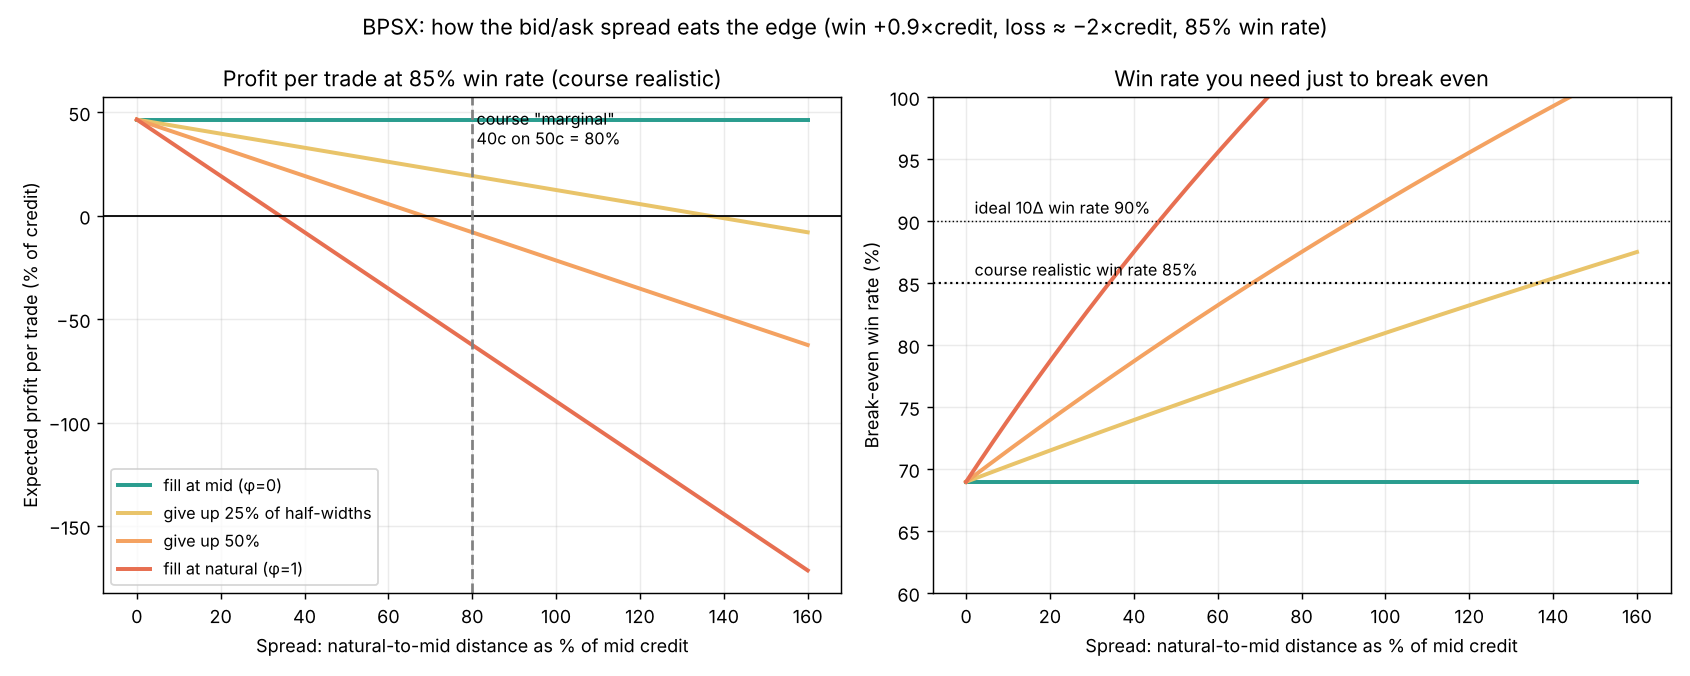
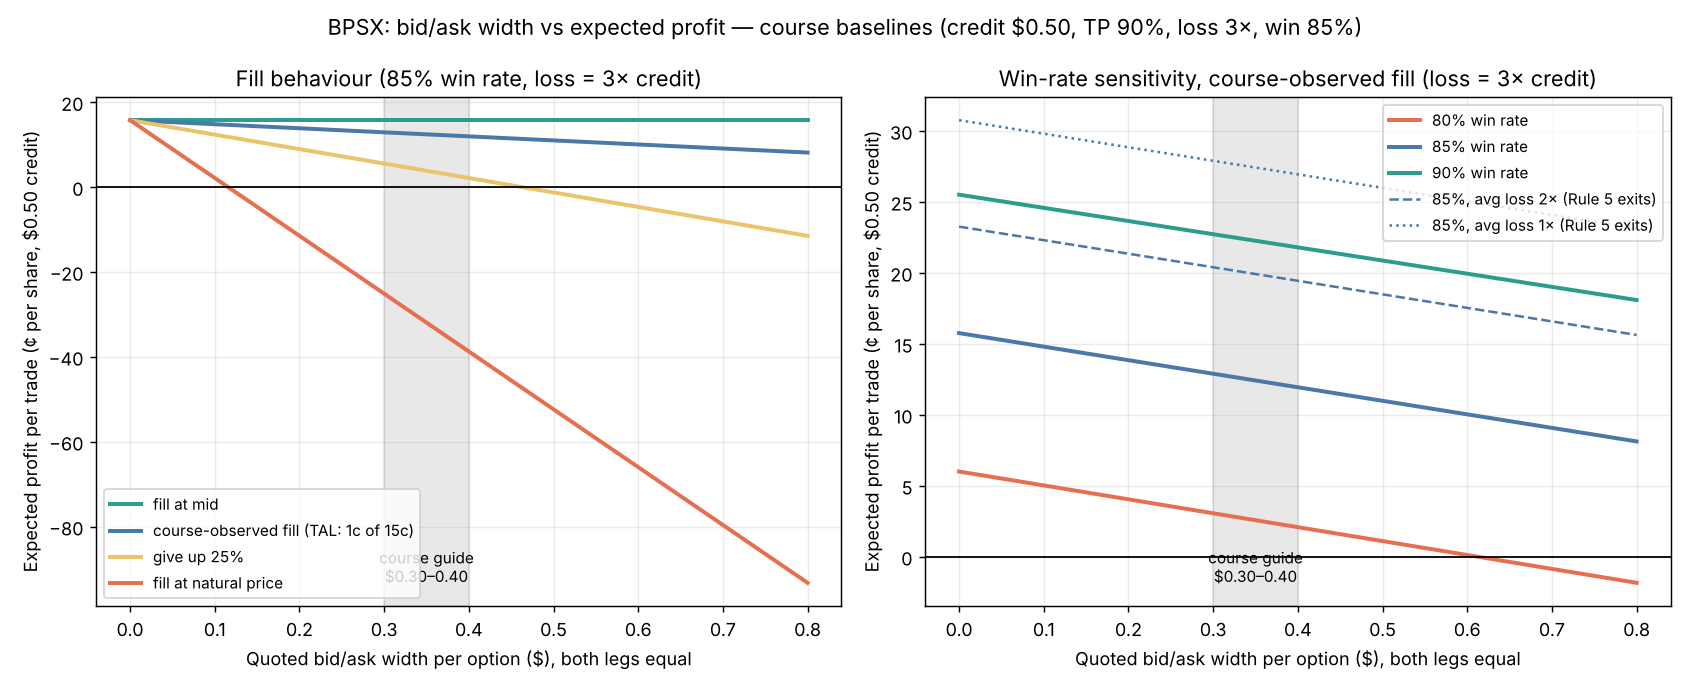
Spread vs profit plot on course baselines
Claude-Session: https://claude.ai/code/session_0116kmSuV8oiKBdSivZMZaz3

diff --git a/docs/spread_vs_profit.py b/docs/spread_vs_profit.py
@@ -1,40 +1,33 @@
-"""Spread vs profit for BPSX, using the course payoff arithmetic (OPTIONS_MASTER_DOCUMENT.md).
-r = H/credit, H = (short width + long width)/2 = natural-to-mid distance. Credit normalised to 1."""
+"""BPSX spread vs profit using the COURSE baselines (OPTIONS_MASTER_DOCUMENT.md, BPSX chapter).
+Credit $0.50/share (Netflix, Alibaba, TAL examples: 0.45-0.96); win +0.9*credit (Rule 1); managed loss -3*credit
+(Rule 4: "you lose three times your money"; Rule 5 exits usually cost 1-2x); win rate 80/85/90% (85% realistic);
+bid/ask guide under $0.30-0.40 per option; fills near mid (TAL: IB default 0.30, mid 0.45, filled 0.44-0.45;
+Netflix quote 4.50 filled 4.40); closing debits 1-3 cents.  Both legs assumed equally wide: H = width (natural-to-mid)."""
 import numpy as np, matplotlib
 matplotlib.use('Agg')
 import matplotlib.pyplot as plt
-
-TP, LOSS, EXIT_TP = 0.9, 2.0, 0.25   # take-profit share, avg loss (x credit), TP exit crosses 25% as wide (near-worthless)
-def ev(r, phi, win, loss=LOSS):
-    entry = phi*r                      # credit given up crossing from mid at entry
-    tp_exit = EXIT_TP*phi*r            # closing at ~1-3c debit
-    stop_exit = phi*r                  # stop exit is a marketable buyback
-    gain = TP - entry - tp_exit
-    lose = loss + entry + stop_exit
-    return win*gain - (1-win)*lose
-def breakeven_win(r, phi, loss=LOSS):
-    entry=phi*r; gain=TP-entry-EXIT_TP*phi*r; lose=loss+entry+phi*r
-    return lose/(gain+lose)
-
-r = np.linspace(0, 1.6, 200)
-fig, ax = plt.subplots(1, 2, figsize=(13, 5.2))
-styles = [(0.0,'fill at mid (φ=0)','#2a9d8f'),(0.25,'give up 25% of half-widths','#e9c46a'),(0.5,'give up 50%','#f4a261'),(1.0,'fill at natural (φ=1)','#e76f51')]
-for phi,lab,c in styles:
-    ax[0].plot(r*100, [ev(x,phi,0.85)*100 for x in r], color=c, lw=2.2, label=lab)
-ax[0].axhline(0,color='k',lw=1);ax[0].axvline(80,color='grey',ls='--');ax[0].text(81,ax[0].get_ylim()[1]*.9,'course "marginal"\n40c on 50c = 80%',fontsize=9,va='top')
-ax[0].set_xlabel('Spread: natural-to-mid distance as % of mid credit');ax[0].set_ylabel('Expected profit per trade (% of credit)')
-ax[0].set_title('Profit per trade at 85% win rate (course realistic)');ax[0].legend(fontsize=9);ax[0].grid(alpha=.25)
-for phi,lab,c in styles:
-    ax[1].plot(r*100, [breakeven_win(x,phi)*100 for x in r], color=c, lw=2.2, label=lab)
-ax[1].axhline(85,color='k',ls=':',lw=1.2);ax[1].text(2,85.6,'course realistic win rate 85%',fontsize=9)
-ax[1].axhline(90,color='k',ls=':',lw=.8);ax[1].text(2,90.6,'ideal 10Δ win rate 90%',fontsize=9)
-ax[1].set_ylim(60,100);ax[1].set_xlabel('Spread: natural-to-mid distance as % of mid credit');ax[1].set_ylabel('Break-even win rate (%)')
-ax[1].set_title('Win rate you need just to break even');ax[1].grid(alpha=.25)
-fig.suptitle('BPSX: how the bid/ask spread eats the edge (win +0.9×credit, loss ≈ −2×credit, 85% win rate)',fontsize=12)
+C=0.50; TP=0.9; EXIT_TP=0.25
+def ev(width, phi, win, loss=3.0):
+    H=width                         # (short width + long width)/2 with equal legs
+    entry=phi*H; gain=TP*C-entry-EXIT_TP*phi*H; lose=loss*C+entry+phi*H
+    return win*gain-(1-win)*lose    # $ per share
+w=np.linspace(0,0.8,161)
+fig,ax=plt.subplots(1,2,figsize=(13,5.3))
+fills=[(0.0,'fill at mid','#2a9d8f'),(0.07,'course-observed fill (TAL: 1c of 15c)','#4c78a8'),(0.25,'give up 25%','#e9c46a'),(1.0,'fill at natural price','#e76f51')]
+for phi,lab,c in fills: ax[0].plot(w,[ev(x,phi,.85)*100 for x in w],color=c,lw=2.2,label=lab)
+ax[1].set_title('Win-rate sensitivity, course-observed fill (loss = 3× credit)')
+for win,c in [(.80,'#e76f51'),(.85,'#4c78a8'),(.90,'#2a9d8f')]: ax[1].plot(w,[ev(x,.07,win)*100 for x in w],color=c,lw=2.2,label=f'{int(win*100)}% win rate')
+for loss,ls in [(2.0,'--'),(1.0,':')]: ax[1].plot(w,[ev(x,.07,.85,loss)*100 for x in w],color='#4c78a8',ls=ls,lw=1.4,label=f'85%, avg loss {loss:.0f}× (Rule 5 exits)')
+for a in ax:
+    a.axhline(0,color='k',lw=1);a.axvspan(.30,.40,color='grey',alpha=.18);pass
+    a.set_xlabel('Quoted bid/ask width per option ($), both legs equal');a.set_ylabel('Expected profit per trade (¢ per share, $0.50 credit)');a.grid(alpha=.25)
+ax[0].set_title('Fill behaviour (85% win rate, loss = 3× credit)')
+ax[0].legend(fontsize=8.5,loc='lower left');ax[1].legend(fontsize=8.5,loc='upper right')
+for a in ax: a.annotate('course guide\n$0.30–0.40',xy=(.35,a.get_ylim()[0]+(a.get_ylim()[1]-a.get_ylim()[0])*.04),ha='center',va='bottom',fontsize=8.5)
+fig.suptitle('BPSX: bid/ask width vs expected profit — course baselines (credit $0.50, TP 90%, loss 3×, win 85%)',fontsize=12)
 fig.tight_layout();fig.savefig('docs/spread_vs_profit.png',dpi=130)
-print('r%  phi=0  .25  .5  1   (EV % of credit @85%)')
-for x in (0,.2,.4,.6,.8,1.0,1.2):
-    print(int(x*100),[round(ev(x,p,.85)*100,1) for p,_,_ in styles],' breakeven win@.25:',round(breakeven_win(x,.25)*100,1))
-# zero-EV spread for each phi
-for p,l,_ in styles[1:]:
-    z=next(x for x in np.linspace(0,10,10001) if ev(x,p,.85)<=0);print(l,'EV hits zero at r=',round(z*100),'%')
+print('width$ | mid | observed | 25% | natural   (cents/share, 85% win, 3x loss)')
+for x in (0,.1,.2,.3,.4,.5,.6,.8): print(x,[round(ev(x,p,.85)*100,1) for p,_,_ in fills])
+print('zero-EV width:',{l:next((round(x,2) for x in np.linspace(0,3,3001) if ev(x,p,.85)<=0),None) for p,l,_ in fills})
+print('win rate needed at 0.40 width:',{l:(round(next((wr for wr in np.linspace(.5,1,5001) if ev(.4,p,wr)>=0),float('nan'))*100,1)) for p,l,_ in fills})
+print('win rate needed at 0 width:',round(next(wr for wr in np.linspace(.5,1,5001) if ev(0,0,wr)>=0)*100,1))
